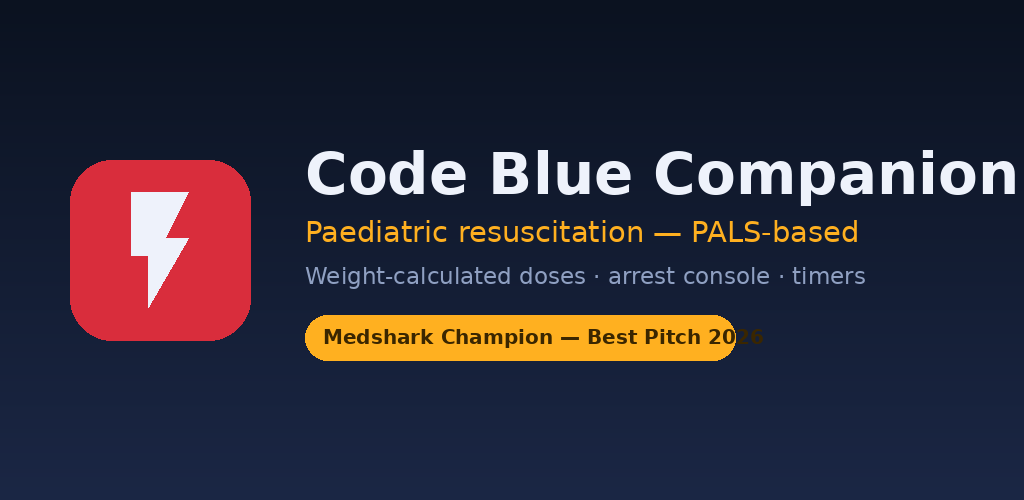
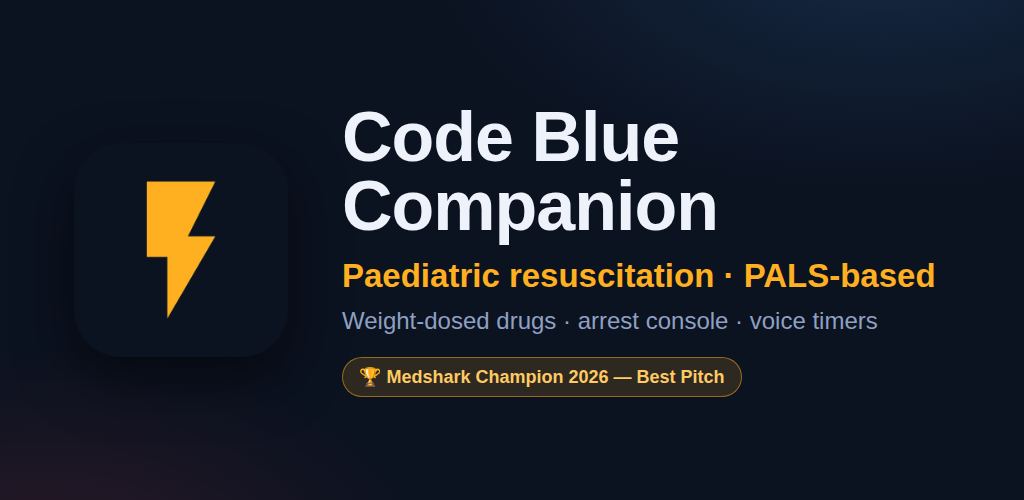
Play Store prep: landscape manifest, TWA config, listing + assets (v5.5.2)
- manifest.webmanifest orientation portrait -> any (installed app rotates
  into the landscape cockpit)
- Add twa-manifest.json (Bubblewrap config, package com.pediaos.cbc.twa)
- Regenerate store/feature-graphic.png on-brand (navy+amber icon, no
  clipping) and add 1080x2160 phone screenshots (assessment, console,
  reference, voice settings)
- Add store/play-listing.md: full store copy + step-by-step Play Console
  guide, including the assetlinks signing-key requirement
- Bump to v5.5.2 so installed clients fetch the updated manifest

Claude-Session: https://claude.ai/code/session_01K8dV5pTMDkhkMt48U82ghw

diff --git a/index.html b/index.html
@@ -520,7 +520,7 @@
     <div class="headtop">
       <div class="logo">&#9889;</div>
       <div style="flex:1">
-        <h1>Code Blue Companion <span class="vbadge">v5.5.1</span><button type="button" class="trophychip" id="trophyChip">&#127942; Medshark Champion<span class="trophypop"><b>Best Pitch &mdash; Medshark Champion 2026</b>Recognised for entrepreneurial spirit: to challenge, create, collaborate and turn ideas into action.<div class="venue">ANBAI LEAD National Conclave &middot; Bangalore Baptist Hospital &middot; 29&ndash;30 Aug 2026</div></span></button></h1>
+        <h1>Code Blue Companion <span class="vbadge">v5.5.2</span><button type="button" class="trophychip" id="trophyChip">&#127942; Medshark Champion<span class="trophypop"><b>Best Pitch &mdash; Medshark Champion 2026</b>Recognised for entrepreneurial spirit: to challenge, create, collaborate and turn ideas into action.<div class="venue">ANBAI LEAD National Conclave &middot; Bangalore Baptist Hospital &middot; 29&ndash;30 Aug 2026</div></span></button></h1>
         <p class="subtl">Paediatric resuscitation &middot; PALS-based</p>
       </div>
       <div class="hdtopbtns">
@@ -749,7 +749,7 @@
 </div>
 <p class="usecount" id="useCountWrap" style="display:none; text-align:center; font-size:10.5px; color:var(--dim); padding:2px 20px 0;"><span id="useCount"></span></p>
 <p class="footcredit">Created by Dr Vignesh N &middot; Kanchi Kamakoti CHILDS Trust Hospital &middot; <a href="about.html">About &amp; full details &rarr;</a></p>
-<p class="disclaimer">Decision-support prototype, aligned with AHA PALS 2020/2025 &amp; APLS weight estimates &middot; v5.5.1 &middot; created by Dr Vignesh N, Kanchi Kamakoti CHILDS Trust Hospital. A trained clinician must verify every dose before administration &mdash; this tool assists recall and calculation, it does not replace clinical judgment, and the treating clinician remains responsible for all decisions.<br>Official guidelines: <a href="https://cpr.heart.org/en/resuscitation-science/cpr-and-ecc-guidelines" target="_blank" rel="noopener">AHA PALS (cpr.heart.org)</a> &middot; <a href="https://iapindia.org" target="_blank" rel="noopener">IAP India — BLS/PALS (iapindia.org)</a><br><span class="copyr">&copy; 2026 Dr Vignesh N, Kanchi Kamakoti CHILDS Trust Hospital. All rights reserved. &ldquo;Code Blue Companion&rdquo; &middot; Not for reuse or redistribution without written permission. &middot; <a href="about.html">About</a> &middot; <a href="privacy.html">Privacy</a></span></p>
+<p class="disclaimer">Decision-support prototype, aligned with AHA PALS 2020/2025 &amp; APLS weight estimates &middot; v5.5.2 &middot; created by Dr Vignesh N, Kanchi Kamakoti CHILDS Trust Hospital. A trained clinician must verify every dose before administration &mdash; this tool assists recall and calculation, it does not replace clinical judgment, and the treating clinician remains responsible for all decisions.<br>Official guidelines: <a href="https://cpr.heart.org/en/resuscitation-science/cpr-and-ecc-guidelines" target="_blank" rel="noopener">AHA PALS (cpr.heart.org)</a> &middot; <a href="https://iapindia.org" target="_blank" rel="noopener">IAP India — BLS/PALS (iapindia.org)</a><br><span class="copyr">&copy; 2026 Dr Vignesh N, Kanchi Kamakoti CHILDS Trust Hospital. All rights reserved. &ldquo;Code Blue Companion&rdquo; &middot; Not for reuse or redistribution without written permission. &middot; <a href="about.html">About</a> &middot; <a href="privacy.html">Privacy</a></span></p>
 
 <div class="htoverlay hidden" id="voiceOverlay">
   <div class="htsheet">
@@ -797,7 +797,7 @@
 
 <div class="dgate" id="dGate">
   <div class="dgbox">
-    <div class="dghead"><div class="lg">&#9889;</div><h2>Code Blue Companion</h2><span class="v">v5.5.1</span></div>
+    <div class="dghead"><div class="lg">&#9889;</div><h2>Code Blue Companion</h2><span class="v">v5.5.2</span></div>
     <p class="dgsub">Paediatric resuscitation decision-support &middot; 0&ndash;18 yr &middot; PALS-based</p>
     <div class="dgcred">
       <div class="n">Created by Dr Vignesh N</div>

diff --git a/about.html b/about.html
@@ -90,7 +90,7 @@
 
   <div class="hero">
     <div class="logo">&#9889;</div>
-    <h1>Code Blue Companion <span class="vbadge">v5.5.1</span></h1>
+    <h1>Code Blue Companion <span class="vbadge">v5.5.2</span></h1>
     <p class="tagline">Paediatric resuscitation decision-support &mdash; PALS-based, weight-calculated doses, arrest console and timers, at the bedside.</p>
   </div>
 

diff --git a/sw.js b/sw.js
@@ -1,4 +1,4 @@
-const CACHE = 'cbc-v5.5.1';
+const CACHE = 'cbc-v5.5.2';
 const CORE = ['./','index.html','about.html','privacy.html','dose-reference.html','manifest.webmanifest','icon.svg','icon-192.png','icon-512.png','apple-touch-icon.png','favicon-32.png'];
 self.addEventListener('install', e => {
   self.skipWaiting();

diff --git a/store/play-listing.md b/store/play-listing.md
@@ -1,0 +1,144 @@
+# Google Play listing & publishing guide — Code Blue Companion
+
+This folder holds everything you need for the Play Console listing. The app is a
+**Trusted Web Activity (TWA)** — a thin Android wrapper around https://cbc.pediaos.com.
+
+---
+
+## Store listing copy
+
+**App name** (max 30 chars)
+```
+Code Blue Companion
+```
+
+**Short description** (max 80 chars)
+```
+Paediatric resuscitation aid — PALS doses, arrest timers & voice prompts.
+```
+
+**Full description** (max 4000 chars)
+```
+Code Blue Companion is a fast, weight-based decision-support aid for paediatric
+resuscitation, built around AHA PALS 2020/2025 and APLS guidance. It is designed
+for use by trained healthcare professionals during a paediatric arrest — a
+recall-and-calculation aid, not a replacement for clinical judgement.
+
+Enter a weight (or estimate it from age) and every dose is calculated for you.
+Tap START CPR to open a hands-free arrest console with timers, a leader status
+line, and optional voice guidance that reads each action aloud.
+
+WHAT IT DOES
+• Rapid assessment — responsive? breathing? central pulse? — tells you if it is
+  an arrest and what to do.
+• Weight-calculated doses — adrenaline, amiodarone, atropine, calcium,
+  bicarbonate, magnesium, fluids, dextrose, naloxone and more, with safe caps.
+• Arrest console — adrenaline and 2-minute reassess timers, shockable vs
+  non-shockable prompts, defibrillation and cardioversion energies, ROSC.
+• Airway & RSI — ETT size and insertion depth, laryngoscope blade, LMA size,
+  and a full rapid-sequence-intubation drug list.
+• Quick reference — the crash-card doses at a glance.
+• Reversible causes — the 6 H's & 5 T's, plus MR SOPA and DOPE checklists.
+• Voice guidance — spoken assessment and action prompts, repeated at 15-second
+  intervals; choose accent (Indian / UK / US / Australian), voice and speed.
+• Post-ROSC infusions with the rule-of-6 mixing guide.
+• Printable, copyable code log.
+• Works fully offline once opened.
+
+WHO IT IS FOR
+Paediatricians, emergency and critical-care teams, anaesthetists, nurses and
+resuscitation trainees.
+
+IMPORTANT
+This app is a decision-support and training aid for qualified clinicians. A
+trained clinician must verify every dose before administration. It does not
+diagnose, does not replace clinical judgement, and the treating clinician
+remains responsible for all decisions. Not a medical device.
+
+Official guidelines: AHA PALS (cpr.heart.org) · IAP India BLS/PALS (iapindia.org)
+Created by Dr Vignesh N, Kanchi Kamakoti CHILDS Trust Hospital.
+```
+
+**Category:** Medical
+**Tags:** paediatrics, resuscitation, PALS, emergency medicine
+**Contact email:** n.vignesh.1996@gmail.com
+**Privacy policy URL:** https://cbc.pediaos.com/privacy.html
+**Website:** https://cbc.pediaos.com
+
+---
+
+## Assets in this folder
+- `feature-graphic.png` — 1024×500 feature graphic (required).
+- `screenshot-1-assess.png` — first page: rapid assessment + weight.
+- `screenshot-2-console.png` — arrest console + quick reference.
+- `screenshot-3-reference.png` — quick reference + reversible causes.
+- `screenshot-4-voice.png` — voice settings (accent / voice / speed).
+- App icon for the listing (512×512): use `../icon-512.png`.
+
+Screenshots are 1080×2160 (9:18). Play needs at least 2 phone screenshots.
+
+---
+
+## Build the Android app (.aab)
+
+### Option A — PWABuilder (no coding)
+1. Go to https://www.pwabuilder.com and enter `https://cbc.pediaos.com`.
+2. Package For Stores → Android.
+3. Set **Package ID = `com.pediaos.cbc.twa`** (must match `.well-known/assetlinks.json`).
+4. Generate & download. The zip contains a signed `.aab` and `signing-key-info`
+   with the SHA-256 fingerprint of the signing key.
+
+### Option B — Bubblewrap CLI
+```
+npm i -g @bubblewrap/cli
+# This repo already contains twa-manifest.json, so from the repo root:
+bubblewrap build          # first run will prompt to create ./android.keystore
+```
+Outputs `app-release-signed.aab` plus the keystore. Keep the keystore safe — you
+need it for every future update.
+
+---
+
+## CRITICAL — Digital Asset Links must match the signing key
+The file `/.well-known/assetlinks.json` proves the app owns the website (this is
+what removes the browser URL bar). Its `sha256_cert_fingerprints` MUST equal the
+SHA-256 of the key that finally signs the app.
+
+- If you enable **Play App Signing** (Google's default and recommended): after you
+  create the app and upload the first `.aab`, open **Play Console → Test and
+  release → App integrity → App signing key certificate** and copy the **SHA-256**.
+  Put that value in `.well-known/assetlinks.json`, then redeploy the site.
+- The fingerprint currently in the repo is a placeholder/local key and will very
+  likely need replacing with the Play signing-key fingerprint above.
+
+Paste me the SHA-256 from Play Console and I will update `assetlinks.json` and
+redeploy — do this before you promote the app to production, or the app will show
+an address bar.
+
+---
+
+## Play Console steps
+1. Create a **Play Developer account** ($25 one-time) at play.google.com/console
+   and complete identity verification.
+2. **Create app** → name "Code Blue Companion", type App, free.
+3. Upload the `.aab` to a testing track (start with **Closed testing**).
+4. **Main store listing** — paste the copy above; upload the feature graphic,
+   the 512 icon, and the screenshots.
+5. Complete the required forms: **Content rating**, **Data safety** (this app
+   collects only the optional login email via Firebase and stores code logs the
+   user creates; no ads, no tracking/advertising IDs), **Target audience**
+   (adults / professionals), and the **Health apps declaration** — declare it as
+   a clinical **reference / decision-support aid for healthcare professionals**,
+   not a diagnostic tool or medical device.
+6. **New personal developer accounts** must run a **closed test with ~12 testers
+   for 14 days** before applying for production access. Company/organisation
+   accounts are exempt. Plan for this delay.
+7. Once testing requirements are met → **Production** → submit for review.
+
+---
+
+## Notes
+- `manifest.webmanifest` orientation is now `any`, so the installed app rotates
+  into the landscape cockpit.
+- Bump `appVersionCode` in `twa-manifest.json` (or in PWABuilder) for every
+  update you upload.
